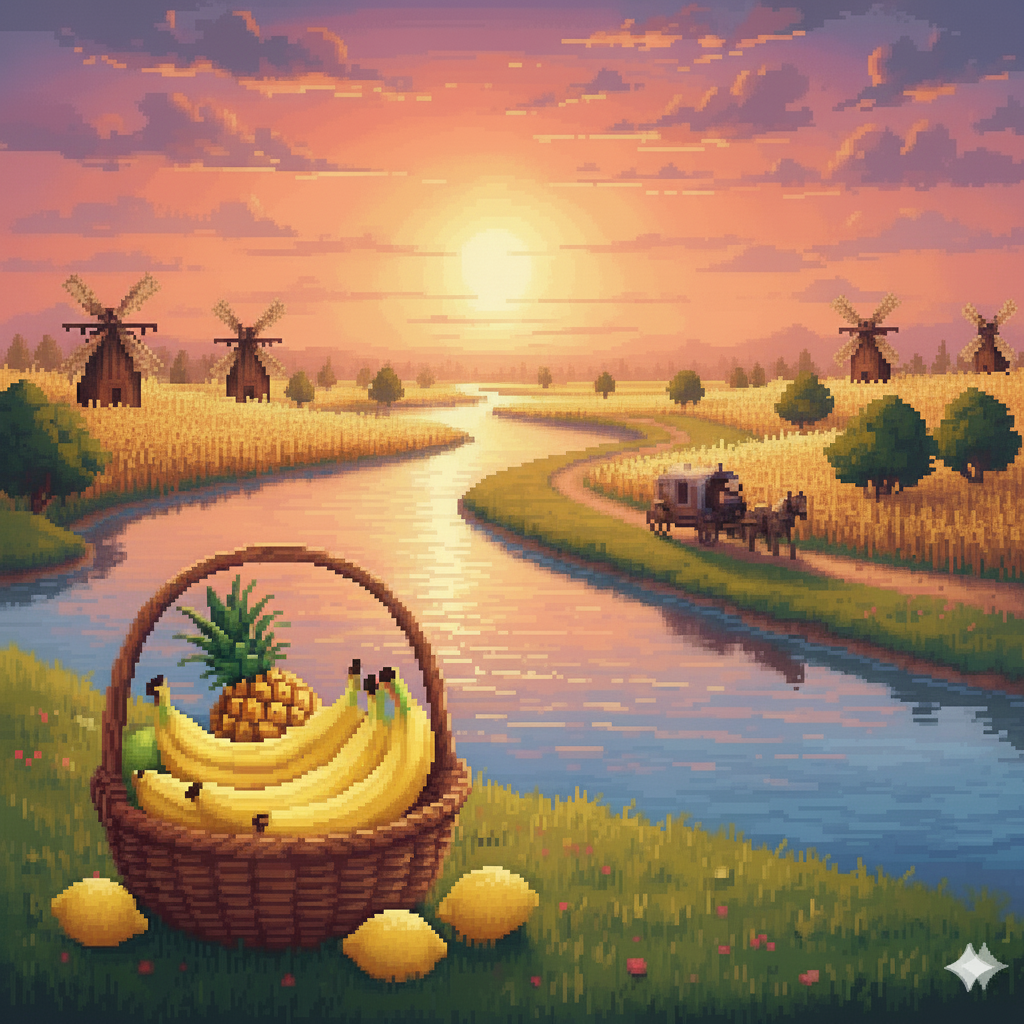
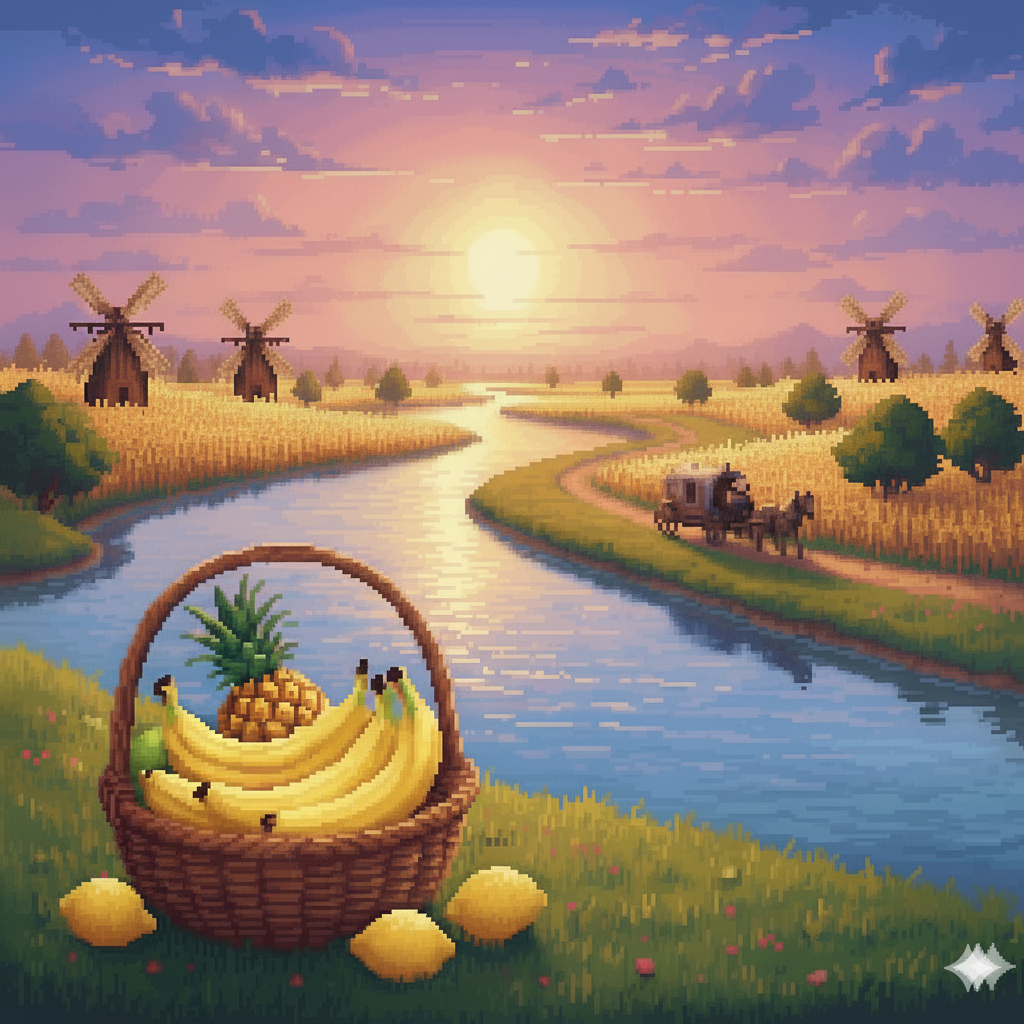
Got all the background images for the levels.

diff --git a/fruidle.html b/fruidle.html
@@ -20,8 +20,8 @@
             <h3>How to Play</h3>
                 <p id="how">
                     Use the fruit keyboard to guess fruit sequence in 5 tries!
-                    Guess must be 3, 5 or 7 fruits long depending on the level
-                    The colour of the tiles will change to show how close your guess was to the fruit sequence
+                    Guess must be 3, 5 or 7 fruits long depending on the level.
+                    The colour of the tiles will change to show how close your guess was to the fruit sequence.
                 </p>
                 Examples 
                 <div class="Example">
@@ -278,8 +278,8 @@
             <h3>How to Play</h3>
             <p id="how">
                 Use the fruit keyboard to guess fruit sequence in 5 tries!
-                Guess must be 3, 5 or 7 fruits long depending on the level
-                The colour of the tiles will change to show how close your guess was to the fruit sequence
+                Guess must be 3, 5 or 7 fruits long depending on the level.
+                The colour of the tiles will change to show how close your guess was to the fruit sequence.
             </p>
             Examples 
             <div class="Example">